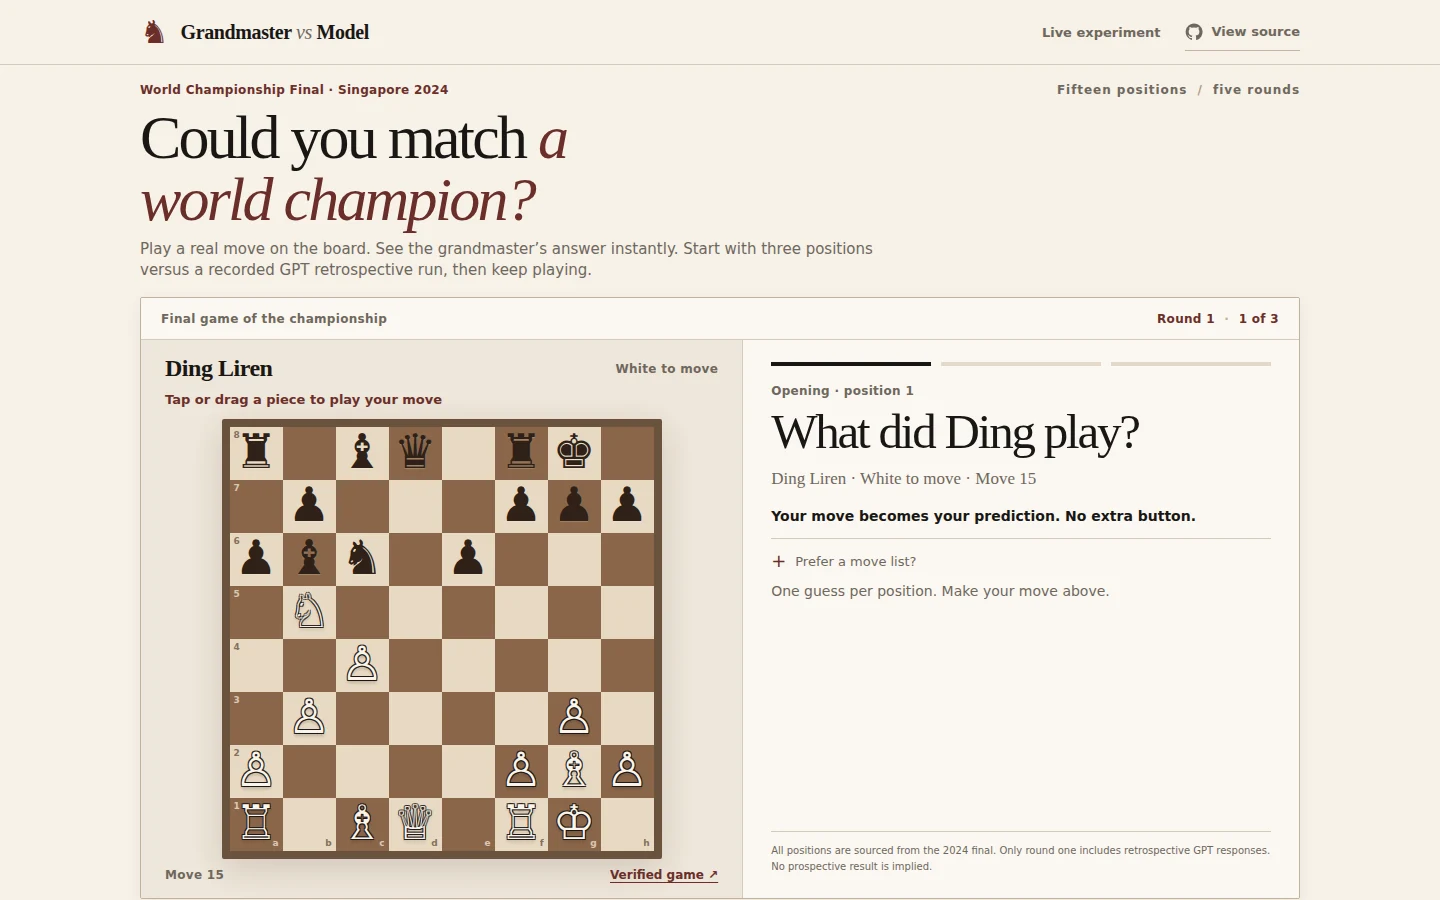
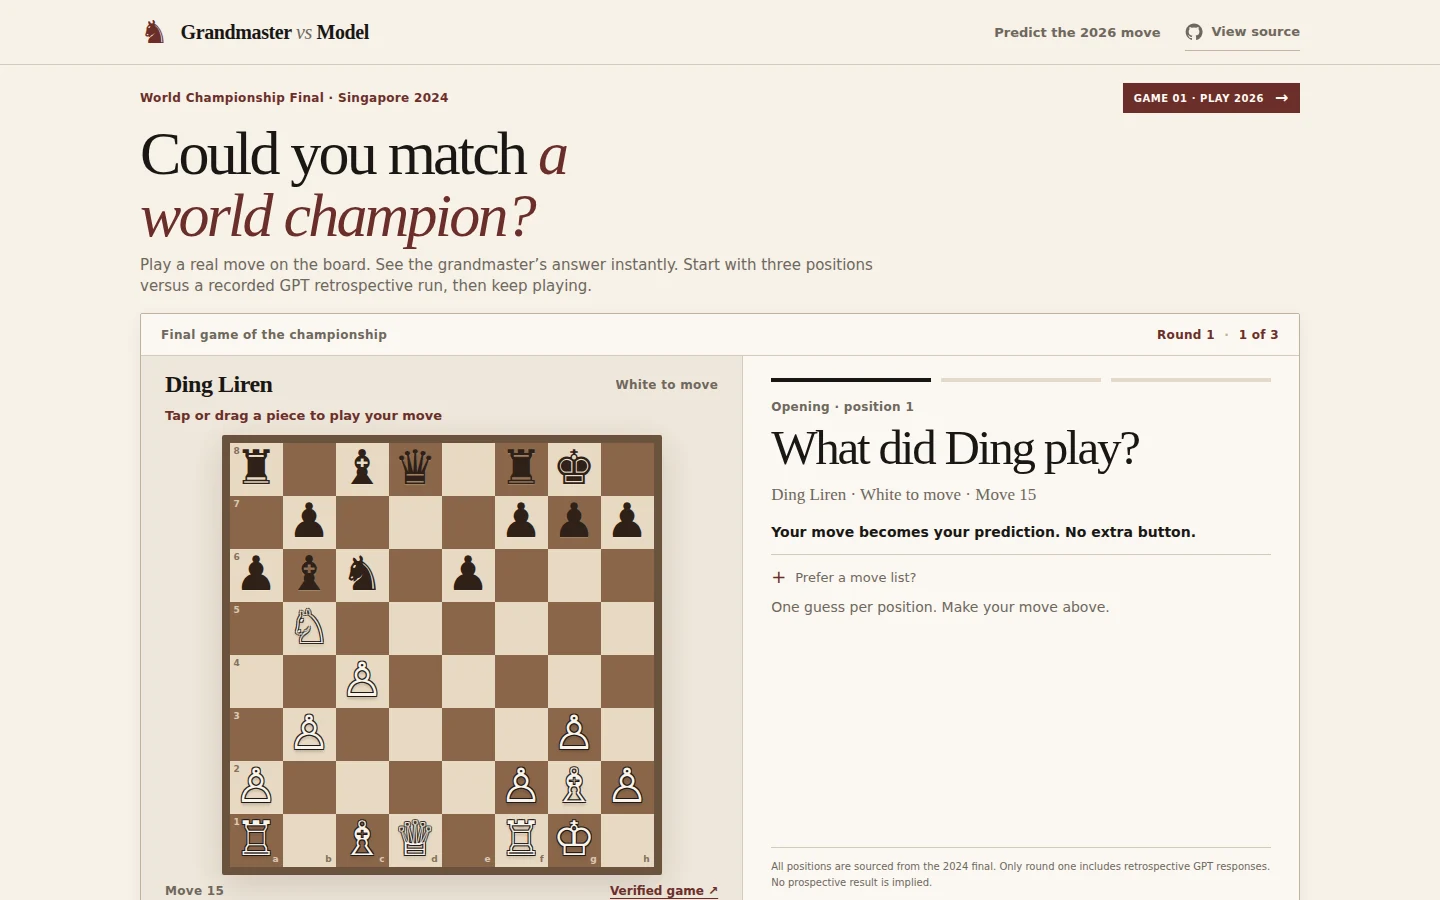
Surface the scheduled 2026 championship game from the first screen
Route homepage visitors to the next relevant official championship round using pinned UTC schedule, with clear distinction between scheduled windows and confirmed play. Show direct first-screen access on mobile and desktop while preserving the 2024 board above the desktop fold. Update real Chromium previews, extend calendar and browser tests, and dispatch Pages for bot-authored preview updates.

diff --git a/index.html b/index.html
@@ -50,8 +50,8 @@
   <main>
     <section id="challenge" class="shell playground" aria-labelledby="hero-title">
       <div class="hero-topline">
-        <span class="eyebrow"><span class="spark" aria-hidden="true"></span>World Championship Final · Singapore 2024</span>
-        <span class="hero-topline-note">Fifteen positions <span aria-hidden="true">/</span> five rounds</span>
+        <span class="eyebrow"><span class="spark" aria-hidden="true"></span><span class="hero-archive-full">World Championship Final · Singapore 2024</span><span class="hero-archive-short">2024 World Final</span></span>
+        <a class="hero-live-link" id="live-hero-link" href="lab.html?mode=live&game=1#experiment" aria-label="Open the 2026 Championship Game 1 board">GAME 01 · PLAY 2026 <span aria-hidden="true">→</span></a>
       </div>
       <div class="intro-row">
         <div>
@@ -96,8 +96,23 @@
       </div>
       <div class="stage-foot"><span><span class="status-orbit" aria-hidden="true"></span>Free to play · no account</span><span>Open source · source-linked</span></div>
     </section>
+    <section class="shell live-invite" id="live-invite" aria-labelledby="live-invite-title">
+      <div class="live-invite-body">
+        <div class="live-invite-meta">
+          <span id="live-invite-status">2026 WORLD CHAMPIONSHIP · GAME 01 / 14</span>
+          <span id="live-invite-time">24 Nov, 14:00 UTC</span>
+        </div>
+        <div class="live-invite-row">
+          <div class="live-invite-copy">
+            <p class="live-invite-title" id="live-invite-title">Call the next move before the match.</p>
+            <p class="live-invite-description" id="live-invite-description">Make a legal opening guess now. The official broadcast will reveal the answer.</p>
+          </div>
+          <a class="live-invite-action" id="live-invite-link" href="lab.html?mode=live&game=1#experiment"><span>Make your opening call</span><span aria-hidden="true">→</span></a>
+        </div>
+      </div>
+    </section>
     <section class="shell followup" id="championship" aria-label="The next championship">
-      <div class="followup-main"><span class="section-eyebrow">Next step · November 2026</span><h2>The live championship experiment comes next.</h2><p>Gukesh vs Sindarov. During the World Championship, this project will record real next-move predictions from frontier AI systems and compare them with the moves on the board. Every published result will link to its evidence.</p></div>
+      <div class="followup-main"><span class="section-eyebrow">Gukesh vs Sindarov · November 2026</span><h2>Play the championship move by move.</h2><p>Make a local next-move guess, compare it with the legally reconstructed Lichess broadcast, or inspect separately recorded model forecasts and their evidence. Local guesses carry no verified pre-move timing.</p></div>
       <a class="followup-action" href="lab.html?mode=live#experiment">Play the next move <span aria-hidden="true">↗</span></a>
     </section>
     <section class="shell trust-line" aria-label="Open source and methodology"><div><span class="section-eyebrow">Built in the open</span><p>Real historical moves. Inspectable API responses. No invented model scores.</p></div><a href="https://github.com/fraware/grandmaster-vs-model" target="_blank" rel="noopener noreferrer">Explore the GitHub repository ↗</a><a href="https://github.com/fraware/grandmaster-vs-model/blob/main/METHOD.md" target="_blank" rel="noopener noreferrer">How predictions are verified ↗</a></section>

diff --git a/landing.css b/landing.css
@@ -339,3 +339,49 @@ a:focus-visible,button:focus-visible,select:focus-visible{outline:3px solid rgba
   .challenge-board{max-width:390px}
   .challenge-right{padding:18px 22px}
 }
+
+/* Editorial, event-aware entry to the 2026 championship.
+   The mobile action stays before the retrospective 2024 board. */
+.live-invite{padding-top:16px;padding-bottom:8px}
+.live-invite-body{padding:15px 23px 16px;border:1px solid var(--line);
+  background:var(--paper-strong);border-top:3px solid var(--accent)}
+.live-invite-meta{display:flex;justify-content:space-between;align-items:baseline;
+  gap:12px;flex-wrap:wrap;color:var(--accent);font-size:10px;
+  font-weight:730;letter-spacing:.11em}
+.live-invite-meta span:last-child{color:var(--muted);letter-spacing:.035em}
+.live-invite-row{display:flex;align-items:center;justify-content:space-between;gap:26px;margin-top:9px}
+.live-invite-copy{min-width:0}
+.live-invite-title{font:400 clamp(23px,2.45vw,31px)/1.15 var(--serif);
+  letter-spacing:-.035em;margin:0}
+.live-invite-description{font-size:12px;line-height:1.45;color:var(--muted);margin:6px 0 0}
+.live-invite-action{background:var(--accent);border:1px solid var(--accent);
+  color:var(--paper-strong);text-decoration:none;display:flex;align-items:center;
+  justify-content:space-between;gap:24px;white-space:nowrap;padding:15px 17px;
+  font-size:12px;font-weight:700;min-width:218px;min-height:49px}
+.live-invite-action:hover{background:var(--accent-deep);border-color:var(--accent-deep)}
+.live-invite-action:focus-visible{outline:3px solid var(--accent);outline-offset:3px}
+.live-invite-action span:last-child{font-size:18px;line-height:1}
+@media(max-width:720px){
+  .live-invite{padding-top:11px;padding-bottom:3px}
+  .live-invite-body{padding:13px 15px 14px}
+  .live-invite-meta{gap:5px;font-size:9px;line-height:1.5}
+  .live-invite-row{display:block;margin-top:7px}
+  .live-invite-title{font-size:24px;line-height:1.1}
+  .live-invite-description{font-size:11px;margin-top:6px}
+  .live-invite-action{margin-top:13px;width:100%;min-width:0;min-height:46px;
+    padding:11px 15px;font-size:12px}
+}
+
+/* Compact championship invitation keeps the playable 2024 board on screen. */
+.hero-archive-short{display:none}
+.hero-live-link{background:var(--accent);color:#fff9f2;padding:6px 11px;
+  text-decoration:none;display:inline-flex;align-items:center;gap:11px;
+  font-size:10px;font-weight:730;letter-spacing:.055em;white-space:nowrap;
+  min-height:30px;line-height:1.3}
+.hero-live-link:hover{background:var(--accent-deep);color:#fff9f2}
+.hero-live-link span{font-size:16px;line-height:1}
+@media(max-width:720px){
+  .hero-archive-full{display:none}
+  .hero-archive-short{display:inline}
+  .hero-live-link{padding:6px 9px;font-size:9px;min-height:29px;gap:8px}
+}

diff --git a/tests/browser-smoke.py b/tests/browser-smoke.py
@@ -38,6 +38,8 @@ def page_sources(kind: str) -> tuple[str, str, dict]:
     html = html.replace('<meta charset="utf-8" />', '<meta charset="utf-8" /><base href="https://fraware.github.io/grandmaster-vs-model/" />')
     html = html.replace(f'<script type="module" src="{main_js}"></script>', '')
     module_names = ['src/chess.mjs', 'src/pgn.mjs']
+    if kind == 'home':
+        module_names += ['src/match-2026.mjs', 'src/home-entry.mjs']
     if kind == 'lab':
         module_names += ['src/match-2026.mjs', 'src/protocol.mjs', 'src/collection.mjs', 'src/broadcast.mjs', 'src/history.mjs', 'src/spectator.mjs']
     module_names += ['src/challenge.mjs', 'src/retro-view.mjs', 'src/challenge-ui.mjs', main_js]
@@ -100,6 +102,18 @@ def test_home(browser, screenshot_dir: str | None) -> None:
         populate(page, source)
         assert page.locator('#board').count() == 0, 'Main page must not duplicate the board'
         assert page.locator('#challenge-board button.challenge-square').count() == 64
+        invitation = page.locator('#live-hero-link')
+        assert invitation.is_visible(), 'Event-aware chess link must be visible on mobile'
+        assert 'mode=live&game=' in invitation.get_attribute('href')
+        assert invitation.bounding_box()['y'] < viewport['height'], 'Live entry must be above the fold'
+        assert page.locator('#live-invite-link').count() == 1
+        assert page.locator('#live-invite-title').inner_text()
+        if label == 'desktop':
+            historic_board = page.locator('#challenge-board').bounding_box()
+            assert historic_board is not None
+            assert historic_board['y'] + historic_board['height'] <= viewport['height'] - 16, (
+                'Historic chessboard moved below the first desktop viewport'
+            )
         assert page.locator('#challenge-board button[tabindex="0"]').count() == 1
         first_cell = page.locator('#challenge-board button.challenge-square').first
         first_cell.focus()

diff --git a/README.md b/README.md
@@ -28,6 +28,10 @@ The implementation is in [`src/spectator.mjs`](src/spectator.mjs) and the main [
 
 *Pregame interface rendered in Chromium with a deterministic fixture, not a recording of played 2026 championship moves. [Mobile screenshot](assets/live-preview-mobile.webp).*
 
+## The championship is one action from the homepage
+
+A compact 2026 World Championship action appears in the **first-screen homepage heading** on desktop and mobile, retaining the original 2024 chessboard's first-viewport placement. A fuller event invitation follows the historical challenge. Both links select the next relevant round using the pinned 14-round UTC registry. Ahead of the announced start it invites a local opening prediction, during the scheduled session it opens the latest sourced position, and beyond the listed rounds it provides a replay entry. The schedule does not establish that physical play has started. Route selection is deterministic and tested in [`src/home-entry.mjs`](src/home-entry.mjs) and [`tests/home-entry.test.mjs`](tests/home-entry.test.mjs).
+
 ## Complete 2024 championship game records
 
 The historical reader now includes **all 14 games and all 1,270 recorded half-moves**, including SAN, UCI, and the legal board position before and after each move. Each game is source-linked to its Lichess broadcast and cross-checked against the separately published PGN Mentor match record. The full source-by-source verification, move counts, checksums, licensing, and limitations are in [DATA_AUDIT.md](DATA_AUDIT.md).

diff --git a/LAUNCH.md b/LAUNCH.md
@@ -49,3 +49,7 @@ The core conversion path is home or direct shared link → 2026 board → tap/dr
 ## Production live-browser acceptance
 
 The live page has been checked from an independent Chromium browser running against the deployed `fraware.github.io` origin. The [20 November preflight](https://github.com/fraware/grandmaster-vs-model/actions/runs/44742780417) returned a fresh in-app Lichess source observation and a cross-origin HTTP 200 for Game 1. The acceptance script and manual workflow are in `tests/production-preflight.py` and `.github/workflows/production-preflight.yml`. The test performs read-only public network requests and has no provider secrets. Run it again before Game 1 and investigate any discrepancy before announcing real-time reliability. Actual observed-move delivery and pre-physical-move model prediction timing remain open validation problems.
+
+## Homepage live entry (v1.7, 20 November 2026)
+
+The next relevant official 2026 round is prominently linked in the first-screen home heading, even at narrow mobile widths, with a fuller event introduction following the immediately playable retrospective board. The copy distinguishes pregame opening guesses, a scheduled broadcast window, and historical board exploration. It never asserts physical play from scheduling metadata alone. Node tests cover all fourteen game boundaries and Chromium tests verify that the entry is visible without scrolling on desktop and mobile. Neither conversion analytics nor visitor tracking is introduced.
